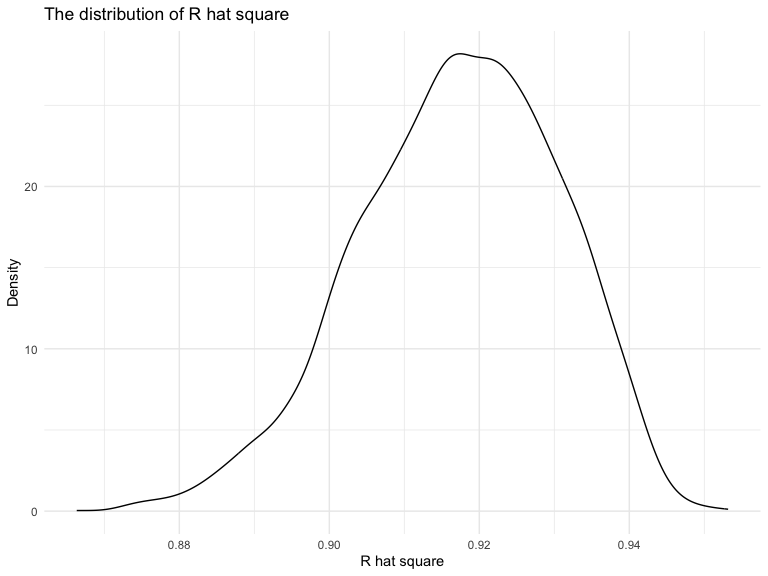
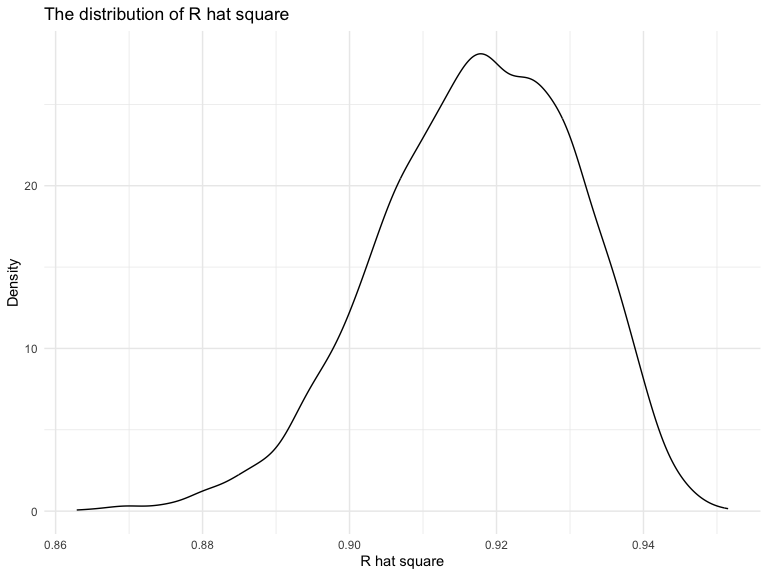
Question 2: conduct confidence interval

diff --git a/p8105_hw6_yz4434.md b/p8105_hw6_yz4434.md
@@ -161,74 +161,24 @@ confidence interval for r̂ 2 and log(β̂ 0∗β̂ 1)
 #### R hat square
 
 ``` r
-# Create sample
+# Create r square and log beta
 boot_sample = function(df) {
   
   sample_frac(df, replace = TRUE)
   
 }
 
-
-r_squared = 
+results = 
   tibble(strap_number = 1:5000) |> 
   mutate(
     strap_sample = map(strap_number, \(i) boot_sample(weather_df)),
     models = map(strap_sample, \(df) lm(tmax ~ tmin + prcp, data = df)),
-    results = map(models, broom::glance)
+    result_r = map(models, broom::glance),
+    result_log_beta = map(models, broom::tidy)
   ) |> 
-  select(strap_number, results) |> 
-  unnest(results)
-
-r_squared
-```
-
-    ## # A tibble: 5,000 × 13
-    ##    strap_number r.squared adj.r.squared sigma statistic   p.value    df logLik
-    ##           <int>     <dbl>         <dbl> <dbl>     <dbl>     <dbl> <dbl>  <dbl>
-    ##  1            1     0.894         0.894  3.37     1533. 1.89e-177     2  -960.
-    ##  2            2     0.919         0.919  3.08     2054. 2.70e-198     2  -927.
-    ##  3            3     0.934         0.934  2.68     2559. 2.63e-214     2  -877.
-    ##  4            4     0.927         0.926  2.73     2289. 3.61e-206     2  -883.
-    ##  5            5     0.937         0.936  2.61     2683. 8.48e-218     2  -867.
-    ##  6            6     0.916         0.915  3.02     1971. 2.56e-195     2  -920.
-    ##  7            7     0.928         0.928  2.65     2343. 7.42e-208     2  -871.
-    ##  8            8     0.933         0.933  2.55     2525. 2.40e-213     2  -858.
-    ##  9            9     0.923         0.923  2.89     2177. 1.58e-202     2  -903.
-    ## 10           10     0.894         0.894  3.27     1530. 2.60e-177     2  -949.
-    ## # ℹ 4,990 more rows
-    ## # ℹ 5 more variables: AIC <dbl>, BIC <dbl>, deviance <dbl>, df.residual <int>,
-    ## #   nobs <int>
-
-``` r
-r_squared_plot = 
-  r_squared|> 
-  ggplot(aes(x = r.squared)) + geom_density()+
-  labs(
-    title = "The distribution of R hat square",
-    x = "R hat square",
-    y = "Density"
-  )
-
-r_squared_plot
-```
-
-<img src="p8105_hw6_yz4434_files/figure-gfm/unnamed-chunk-2-1.png" width="90%" />
-
-#### log(β̂ 1∗β̂ 2)
-
-``` r
-# Create sample
-
-log_beta = 
-  tibble(strap_number = 1:5000) |> 
-  mutate(
-    strap_sample = map(strap_number, \(i) boot_sample(weather_df)),
-    models = map(strap_sample, \(df) lm(tmax ~ tmin + prcp, data = df)),
-    results = map(models, broom::tidy)
-  ) |> 
-  select(strap_number, results) |> 
-  unnest(results) |> select(strap_number, term, estimate) |> 
-  pivot_wider(
+  unnest(result_log_beta) |> select(term,estimate, result_r) |> 
+  unnest(result_r) |> select(term, estimate, r.squared) |> 
+    pivot_wider(
     names_from = term,
     values_from = estimate
   ) |> 
@@ -239,3 +189,80 @@ log_beta =
     log_b1_b2 = log(beta1*beta2)
   )
 ```
+
+#### Distribution of r square and log(β̂ 1∗β̂ 2)
+
+``` r
+# R square distribution
+
+r_squared_plot = 
+  results|> 
+  ggplot(aes(x = r.squared)) + geom_density()+
+  labs(
+    title = "The distribution of R hat square",
+    x = "R hat square",
+    y = "Density"
+  )
+
+r_squared_plot
+```
+
+<img src="p8105_hw6_yz4434_files/figure-gfm/unnamed-chunk-3-1.png" width="90%" />
+
+Description: According to the output of density, we can see that the
+plot shows a unimodal distribution, meaning there is one peak, and it
+seems to be normally distributed around the peak. The highest density of
+R-squared values is just above 0.92, indicating that most of the
+R-squared values from the bootstrap samples or model runs are clustered
+around this region. The density smoothly decreases as the values move
+away from the peak on either side.
+
+``` r
+# log(β̂ 1∗β̂ 2) distribution
+
+log_beta_plot = 
+  results |> 
+  ggplot(aes(x = log_b1_b2)) + geom_density()+
+  labs(
+    title = "The distribution of log(β̂ 1∗β̂ 2)",
+    x = "log(β̂ 1∗β̂ 2)",
+    y = "Density"
+  )
+
+log_beta_plot
+```
+
+<img src="p8105_hw6_yz4434_files/figure-gfm/unnamed-chunk-4-1.png" width="90%" />
+
+Description: The plot indicates that the logarithmic values range
+approximately from -12 to -4, which looks like a left-skewed
+distribution. The distribution has a single peak, suggesting that most
+of the log-transformed products of β1 and β2 are concentrated around
+this peak. The peak of the distribution is around -6, which is where the
+highest density of observations is found. The density decreases as the
+values move away from the peak on either side.
+
+#### Construct Confidence Interval
+
+``` r
+ci_results = 
+  results|> select(r.squared, log_b1_b2) |> 
+  pivot_longer(
+    r.squared:log_b1_b2,
+    names_to = "type",
+    values_to = "estimate"
+  ) |> 
+  group_by(type) |> 
+  summarize(
+    ci_lower = quantile(estimate, 0.025, na.rm = TRUE),
+    ci_upper = quantile(estimate, 0.975, na.rm = TRUE)
+  )
+
+ci_results
+```
+
+    ## # A tibble: 2 × 3
+    ##   type      ci_lower ci_upper
+    ##   <chr>        <dbl>    <dbl>
+    ## 1 log_b1_b2   -8.75    -4.62 
+    ## 2 r.squared    0.888    0.940
